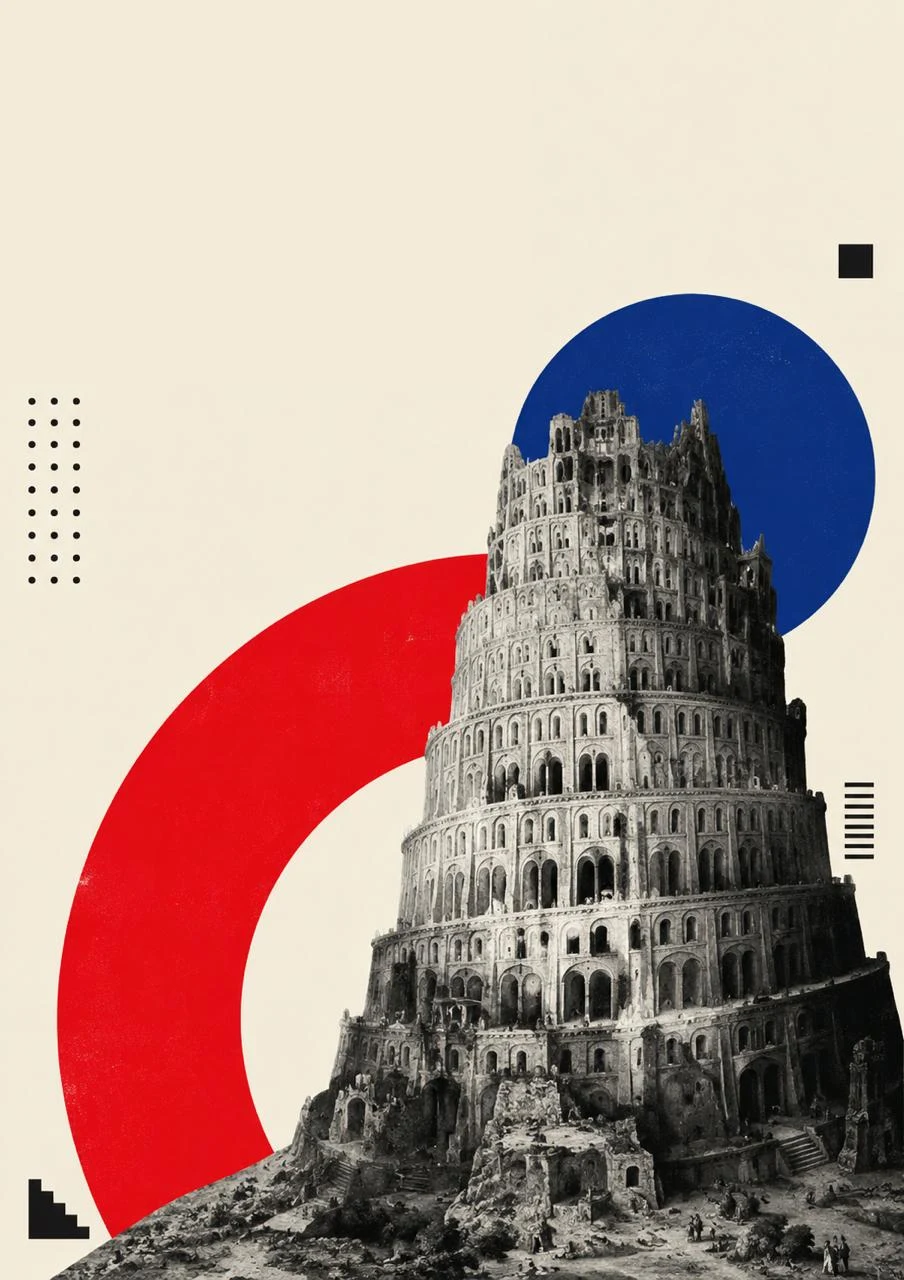
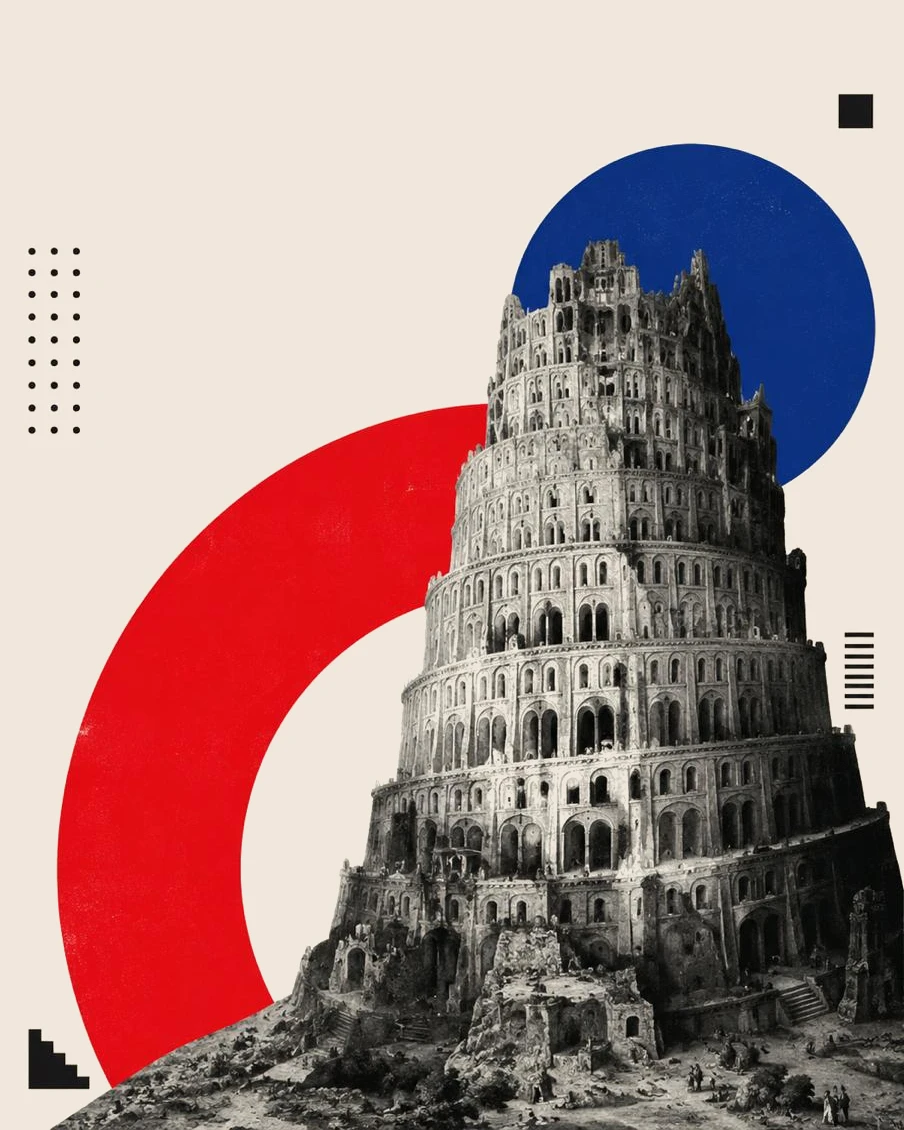
fix: hero di Babel — colori, sfondo uguale al sito, niente più overflow
- content/_schema.ts + spettacoli/[slug]/page.tsx: nuovo campo heroColor
  per saltare il trattamento B/N (u-riso) sulle immagini che devono
  restare a colori. Babel lo usa.
- collage-babel.webp rigenerata: sfondo ricolorato dal tono originale
  della locandina (#f3ebd9) al colore carta del sito (#f0e7dc, con
  sostituzione per prossimità colore + sfumatura sui bordi, non un patch
  rigido) così l'immagine si fonde nella pagina senza bordo visibile;
  ritagliata a rapporto 0.8 (904x1130, come le altre hero) per non
  sforare più nella fascia "Cadenza · Ricorrente" sotto.

Claude-Session: https://claude.ai/code/session_01JrLky1G8NmA7DhB1Vno5mF

diff --git a/app/spettacoli/[slug]/page.tsx b/app/spettacoli/[slug]/page.tsx
@@ -103,7 +103,9 @@ export default async function ShowPage(props: PageProps<"/spettacoli/[slug]">) {
               width={420}
               height={520}
               priority
-              className="u-riso absolute right-[-6%] top-[-2%] w-[86%] max-w-none"
+              className={`absolute right-[-6%] top-[-2%] w-[86%] max-w-none ${
+                show.heroColor ? "" : "u-riso"
+              }`}
             />
           </div>
         )}

diff --git a/content/_schema.ts b/content/_schema.ts
@@ -11,6 +11,8 @@ export const showFrontmatter = z.object({
   durata: z.string().optional(),
   pubblico: z.string().optional(),
   hero: z.string().optional(),
+  /** Se true, l'immagine hero resta a colori invece del trattamento B/N (u-riso). */
+  heroColor: z.boolean().default(false),
   gallery: z.array(z.string()).default([]),
   video: z.string().url().optional(),
   /**

diff --git a/content/spettacoli/babel.md b/content/spettacoli/babel.md
@@ -8,6 +8,7 @@ lingua: [it, de, en, es, fr]
 durata: 90′ + intervallo
 pubblico: Adulti e famiglie
 hero: /collage/collage-babel.webp
+heroColor: true
 gallery: []
 yesticket:
   match: ["Babel"]
